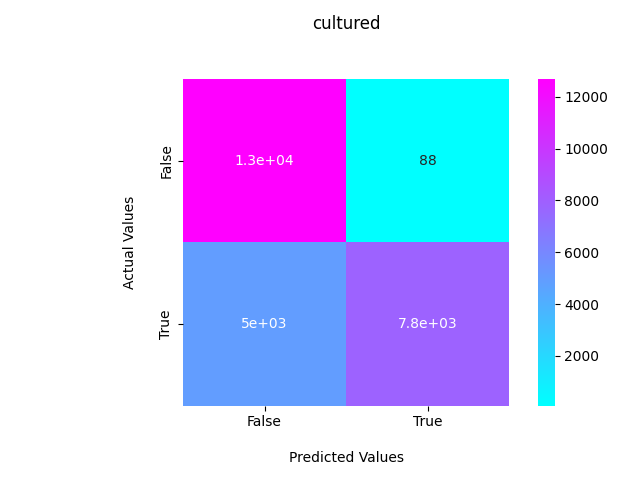
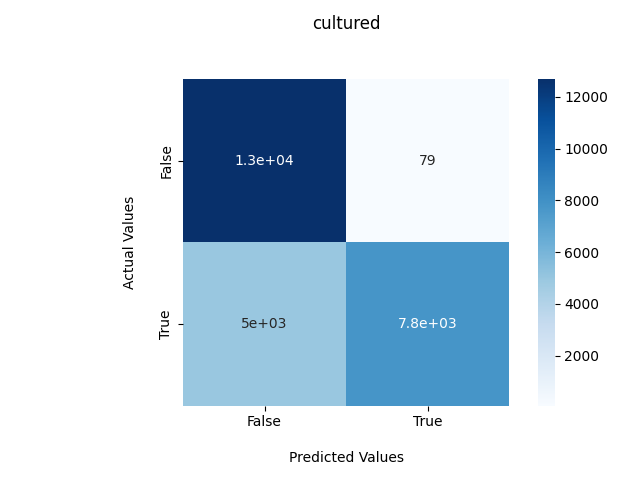
adding gini importances and false/true pos figs

diff --git a/scripts/LASSO-RF_feature-importance.py b/scripts/LASSO-RF_feature-importance.py
@@ -1,7 +1,7 @@
 import pandas as pd
 import numpy as np
-import os
-import shap
+import os, sys
+#import shap
 
 import matplotlib.pyplot as plt
 import seaborn as sns
@@ -76,7 +76,7 @@ def perform_SMOTE(X, y, k_neighbors=2, random_state=1982):
 
 #--------------------------------------------------------------------------------------------------#
 
-def preload_GEM(include_metadata=True):
+def preload_GEM(include_metadata=True, features_type='both'):
     curr_dir = os.getcwd()
 
     meta_file = curr_dir+'/data/GEM_data/GEM_metadata.tsv'
@@ -84,13 +84,23 @@ def preload_GEM(include_metadata=True):
     path_file = curr_dir+'/data/GEM_data/pathway_features_counts_wide.tsv'
 
     metadata = pd.read_csv(meta_file, sep='\t', header=0, encoding=detect_encoding(meta_file))
-    annot_features = pd.read_csv(annot_file, sep='\t', header=0, encoding=detect_encoding(annot_file))
-    annot_features = normalize_abundances(annot_features)
-    path_features = pd.read_csv(path_file, sep='\t', header=0, encoding=detect_encoding(path_file))
-    path_features = normalize_abundances(path_features)
 
-    data = pd.merge(metadata, path_features, on='genome_id', how='inner')
-    data = pd.merge(data, annot_features, on='genome_id', how='inner')
+    if features_type == 'both':
+        annot_features = pd.read_csv(annot_file, sep='\t', header=0, encoding=detect_encoding(annot_file))
+        annot_features = normalize_abundances(annot_features)
+        path_features = pd.read_csv(path_file, sep='\t', header=0, encoding=detect_encoding(path_file))
+        path_features = normalize_abundances(path_features)
+        data = pd.merge(metadata, path_features, on='genome_id', how='inner')
+        data = pd.merge(data, annot_features, on='genome_id', how='inner')
+
+    elif features_type == 'pathway':
+        path_features = pd.read_csv(path_file, sep='\t', header=0, encoding=detect_encoding(path_file))
+        path_features = normalize_abundances(path_features)
+        data = pd.merge(metadata, path_features, on='genome_id', how='inner')
+    elif features_type == 'annotation':
+        annot_features = pd.read_csv(annot_file, sep='\t', header=0, encoding=detect_encoding(annot_file))
+        annot_features = normalize_abundances(annot_features)
+        data = pd.merge(metadata, annot_features, on='genome_id', how='inner')
 
     label_strings = data['cultured.status']
 
@@ -111,6 +121,7 @@ def preload_GEM(include_metadata=True):
 
     features = pd.get_dummies(features)
     labels = pd.get_dummies(label_strings)['cultured']
+    #print(labels)
 
     return features, labels
 
@@ -118,7 +129,7 @@ def preload_GEM(include_metadata=True):
 
 def run_LASSO(X_train_scaled, X_test_scaled, y_train, param_grid = None):
     if param_grid == None:
-        param_grid = {'alpha':np.arange(0.01, 2, 0.05)}
+        param_grid = {'alpha':np.arange(0.01, 3, 0.05)}
 
     search = GridSearchCV(estimator = Lasso(),
                           param_grid = param_grid,
@@ -132,13 +143,11 @@ def run_LASSO(X_train_scaled, X_test_scaled, y_train, param_grid = None):
     importance = np.abs(coefficients)
     remove = np.array(X_train_scaled.columns)[importance == 0]
 
-    print('Features being removed:')
-    print(remove)
-
-    if len(remove) != len(X_train_scaled.columns):
+    if len(remove) < len(X_train_scaled.columns):
         LASSO_train = X_train_scaled.loc[:, ~X_train_scaled.columns.isin(remove)]
         LASSO_test = X_test_scaled.loc[:, ~X_test_scaled.columns.isin(remove)]
     else:
+        print('LASSO COULDNT DECIDE')
         LASSO_train = X_train_scaled
         LASSO_test = X_test_scaled
 
@@ -146,7 +155,7 @@ def run_LASSO(X_train_scaled, X_test_scaled, y_train, param_grid = None):
 
 #--------------------------------------------------------------------------------------------------#
 
-def plot_confusion_matrix(y_pred, y_actual, title, path, color):
+def plot_confusion_matrix(y_pred, y_actual, title, path, color=None):
     if color == None:
         color = 'Oranges'
 
@@ -186,6 +195,62 @@ def plot_auc(y_pred, y_actual, title, path):
 
 #--------------------------------------------------------------------------------------------------#
 
+def plot_feature_importance(columns, importances, path):
+    plt.figure(figsize=(16,8))
+    sorted_idx = importances.argsort()
+    sorted_idx = [i for i in sorted_idx if importances[i] > 0.01]
+    plt.barh(columns[sorted_idx], importances[sorted_idx])
+    plt.xlabel('Gini Values')
+    plt.title('Random Forest Feature Importance')
+    plt.tight_layout()
+    plt.savefig(path)
+    plt.close()
+
+#--------------------------------------------------------------------------------------------------#
+
+#taken from here: https://stats.stackexchange.com/questions/288736/random-forest-positive-negative-feature-importance
+def calculate_pseudo_coefficients(X, y, thr, probs, importances, nfeatures, path):
+    dec = list(map(lambda x: (x> thr)*1, probs))
+    val_c = X.copy()
+
+    #scale features for visualization
+    val_c = pd.DataFrame(StandardScaler().fit_transform(val_c), columns=X.columns)
+
+    val_c = val_c[importances.sort_values('importance', ascending=False).index[0:nfeatures]]
+    val_c['t']=y
+    val_c['p']=dec
+    val_c['err']=np.NAN
+    #print(val_c)
+
+    val_c.loc[(val_c['t']==0)&(val_c['p']==1),'err'] = 3#'fp'
+    val_c.loc[(val_c['t']==0)&(val_c['p']==0),'err'] = 2#'tn'
+    val_c.loc[(val_c['t']==1)&(val_c['p']==1),'err'] = 1#'tp'
+    val_c.loc[(val_c['t']==1)&(val_c['p']==0),'err'] = 4#'fn'
+
+    n_fp = len(val_c.loc[(val_c['t']==0)&(val_c['p']==1),'err'])
+    n_tn = len(val_c.loc[(val_c['t']==0)&(val_c['p']==0),'err'])
+    n_tp = len(val_c.loc[(val_c['t']==1)&(val_c['p']==1),'err'])
+    n_fn = len(val_c.loc[(val_c['t']==1)&(val_c['p']==0),'err'])
+
+    fp = np.round(val_c[(val_c['t']==0)&(val_c['p']==1)].mean(),2)
+    tn = np.round(val_c[(val_c['t']==0)&(val_c['p']==0)].mean(),2)
+    tp =  np.round(val_c[(val_c['t']==1)&(val_c['p']==1)].mean(),2)
+    fn =  np.round(val_c[(val_c['t']==1)&(val_c['p']==0)].mean(),2)
+
+
+    c = pd.concat([tp,fp,tn,fn],names=['tp','fp','tn','fn'],axis=1)
+    pd.set_option('display.max_colwidth',900)
+    c = c[0:-3]
+
+    c.columns = ['TP','FP','TN','FN']
+
+    c.plot.bar()
+    plt.title('Relative Scaled Model Coefficients for True/False Positive Rates')
+    plt.savefig(path)
+    plt.close()
+
+#--------------------------------------------------------------------------------------------------#
+
 def run_RF(X_train, X_test, y_train, y_test, image_name, image_path=None, param_grid=None, label=None, title=None, color=None):
 
     if param_grid == None:
@@ -211,7 +276,6 @@ def run_RF(X_train, X_test, y_train, y_test, image_name, image_path=None, param_
     clf.fit(X_train, y_train)
 
     print('Features selected by LASSO:')
-    print(X_train.columns)
 
     print('Predicting on test data for label:', label)
     y_pred = clf.predict(X_test)
@@ -243,23 +307,34 @@ def run_RF(X_train, X_test, y_train, y_test, image_name, image_path=None, param_
     print()
 
     print('Calculating feature importance...')
-    explainer = shap.TreeExplainer(clf.best_estimator_)
-    shap_values = explainer.shap_values(X_test)
+    importances = pd.DataFrame(clf.best_estimator_.feature_importances_, index=X_train.columns, columns=['importance'])
+    importances = importances[importances['importance'] > 0.01]
+    plot_feature_importance(X_train.columns, clf.best_estimator_.feature_importances_, filename+'_FI-gini.png')
+    calculate_pseudo_coefficients(X_test, y_test, 0.5, probs, importances, len(X_train.columns), filename+'_FI-rates.png')
 
-    shap.summary_plot(shap_values, X_test, plot_type="bar")
-    plt.savefig(filename+'_FI-barplot.png', bbox_inches='tight')
-    plt.close()
-
-    shap.summary_plot(shap_values, X_test, plot_type='dot')
-    plt.savefig(filename+'_FI-summary.png', bbox_inches='tight')
-    plt.close()
+    # explainer = shap.TreeExplainer(clf.best_estimator_)
+    # shap_values = explainer.shap_values(X_test)
+    #
+    # shap.summary_plot(shap_values, X_test, plot_type="bar")
+    # plt.savefig(filename+'_FI-barplot.png', bbox_inches='tight')
+    # plt.close()
+    #
+    # shap.summary_plot(shap_values, X_test, plot_type='dot')
+    # plt.savefig(filename+'_FI-summary.png', bbox_inches='tight')
+    # plt.close()
 
 
 #--------------------------------------------------------------------------------------------------#
 
 if __name__ == '__main__':
+    if len(sys.argv) < 2:
+        print('Usage: python3 '+str(sys.argv[0])+' [pathway, annotation, both]')
+        exit
+
+    features_type_ = sys.argv[1]
+
     print('Loading GEM...')
-    features, labels = preload_GEM(include_metadata=False)
+    features, labels = preload_GEM(include_metadata=False, features_type=features_type_)
 
     print('Pre-preprocessing data...')
     features = clean_data(features)
@@ -269,5 +344,6 @@ if __name__ == '__main__':
     print('Running LASSO...')
     X_train_reduced, X_test_reduced = run_LASSO(X_train, X_test, y_train)
 
+    print(X_train_reduced.columns)
     print('Running Random Forests...')
-    run_RF(X_train_reduced, X_test_reduced, y_train, y_test, 'LASSO-RF-GEM-both', image_path='./figures', color='cool')
+    run_RF(X_train_reduced, X_test_reduced, y_train, y_test, 'LASSO-RF-GEM-'+str(features_type_), image_path='./figures', color='Blues')
